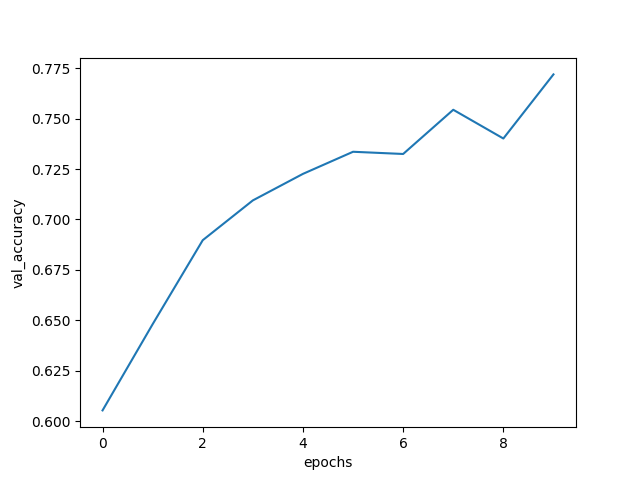
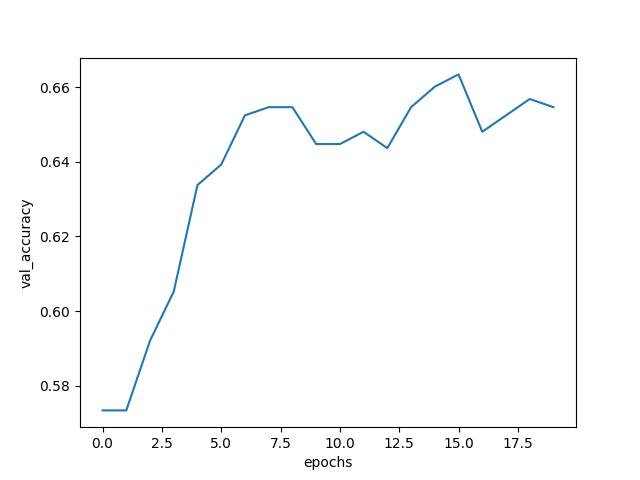
Check Validation Convergence

diff --git a/Nick_tests/replicate/gender_model.py b/Nick_tests/replicate/gender_model.py
@@ -24,7 +24,7 @@ class GenderDataset(Dataset):
         if(mode=="train" or mode=="val"):
             labels=train_data.ix[:,5:6]
             img_names=train_data.ix[:,0:1]
-            img_names_train, img_names_val, labels_train, labels_val = train_test_split(img_names, labels, random_state=None,train_size=0.85,test_size=0.15)
+            img_names_train, img_names_val, labels_train, labels_val = train_test_split(img_names, labels, random_state=7,train_size=0.85,test_size=0.15)
             self.N=img_names_train.shape[0]
             self.V=img_names_val.shape[0]
             self.img_names_train=np.array(img_names_train).reshape([self.N,1])
@@ -203,9 +203,9 @@ print("defined model")
 model.type(dtype)
 model.train()
 loss_fn = nn.CrossEntropyLoss().type(dtype)
-optimizer = optim.Adam(model.parameters(), lr=2e-6,weight_decay=0)
+optimizer = optim.Adam(model.parameters(), lr=1e-5,weight_decay=5e-1)
 print("start training")
-loss_history,acc_history,val_acc_history=train(train_loader,val_loader, model, loss_fn, optimizer, dtype,num_epochs=10, print_every=17)
+loss_history,acc_history,val_acc_history=train(train_loader,val_loader, model, loss_fn, optimizer, dtype,num_epochs=20, print_every=17)
 
 plt.plot(range(len(loss_history)),loss_history)
 plt.xlabel("iterations")
